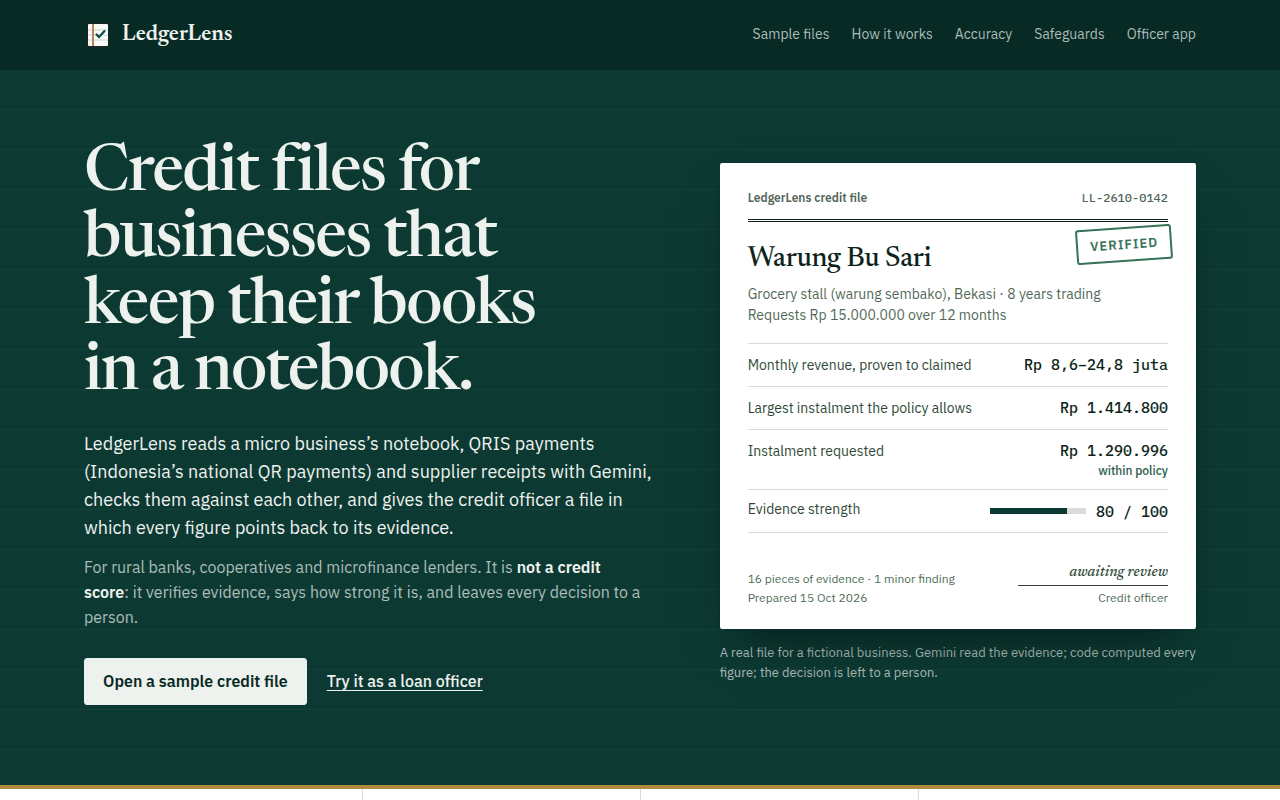
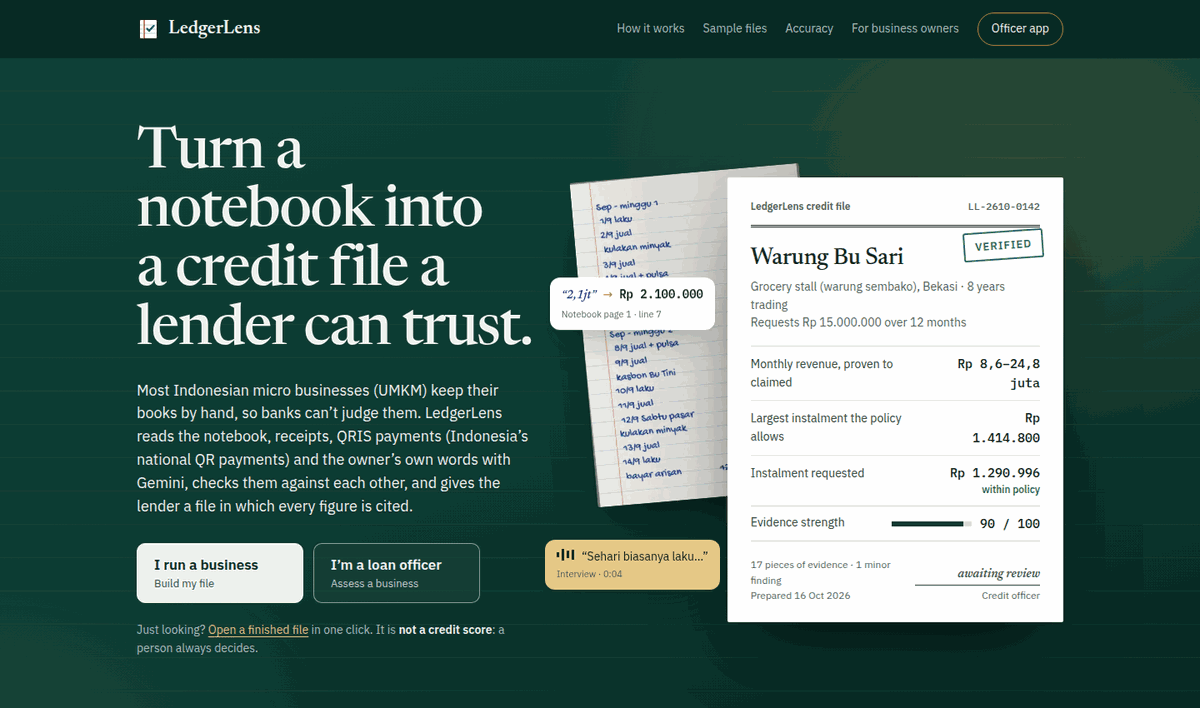
docs: describe both sides of LedgerLens and the handover
The README now shows the business owner's phone screens beside the lender's, explains how a file
moves from owner to lender and back, what each side can see, and why there is no marketplace.

diff --git a/README.md b/README.md
@@ -4,8 +4,10 @@
 
 LedgerLens turns the evidence a small business already has (handwritten notebook pages, QRIS payment
 history, supplier receipts, photos of the shop and a short interview with the owner) into a verified credit
-file that a loan officer can trust. Every number in the file links back to the photo it came from, and a
-human always makes the lending decision.
+file that a loan officer can trust. It has two sides. A business owner can build the file on their own phone,
+see what it confirms and what is still missing, and share it with one lender of their choice; a loan officer
+can open that shared file, or build one on a visit. Every number in the file links back to the photo it came
+from, and a human at the lender always makes the decision.
 
 **Live prototype: [ledger-lens-511708.web.app](https://ledger-lens-511708.web.app)**. There is no login
 wall: the app signs you in anonymously in the background.
@@ -14,24 +16,37 @@ wall: the app signs you in anonymously in the background.
 > Fraud & Financial Experiences). Every business, notebook and receipt in the prototype is fictional.
 
 <p align="center">
-  <img src="assets/screens/landing.png" width="820" alt="LedgerLens landing page with a verified sample credit file for Warung Bu Sari">
+  <img src="assets/screens/landing.png" width="820" alt="LedgerLens landing page with two doors, I run a business and I'm a loan officer, beside a notebook page and a verified credit file for Warung Bu Sari">
 </p>
 
 ### Try it in two minutes
 
-1. **Read a finished credit file.** Open the [Warung Makan Hendra sample](https://ledger-lens-511708.web.app/samples/pak-hendra),
+There are three ways in. The first needs no waiting at all; the other two run the real analysis with Gemini.
+
+1. **Open a finished credit file.** Open the [Warung Makan Hendra sample](https://ledger-lens-511708.web.app/samples/pak-hendra),
    a food stall whose notebook claims far more than its purchases can support. Click any citation, such as
    *Notebook page 1, line 2*, to see the photographed page beside what Gemini read from it, with that line
    highlighted, or *Interview, 0:04* to hear the owner put his daily sales at a third of what his notebook
    claims. The other two samples are [Warung Bu Sari](https://ledger-lens-511708.web.app/samples/bu-sari)
    (verified) and [Penjahit Pak Joko](https://ledger-lens-511708.web.app/samples/pak-joko) (partially
    verified). These files were analysed in advance, so they open instantly.
-2. **Run one yourself as a loan officer** (about five minutes, most of it waiting on the free tier):
-   go to [/app/new](https://ledger-lens-511708.web.app/app/new), choose **Start from a sample business**, then
-   **Create and continue to consent** and **Record consent and continue**. On the evidence page, press
-   **Add these records** to upload that business's two months of photos, then **Run the analysis** and watch
-   the agents work. When the file is ready, type an answer under a question for the owner and press
-   **Re-check with the owner's answers**. Finish by recording a decision with a written reason.
+2. **Be the business owner** (on a phone if you have one; about five minutes, most of it waiting on the free
+   tier): go to [/owner](https://ledger-lens-511708.web.app/owner) and pick a business under **Try with a
+   sample business**. Press **Continue**, read who will see your file and agree with **I agree, let's start**,
+   then press **Add these sample records** and **Check my records**. When the check is done, read the summary
+   written for you, answer a question if you like, and press **Create my share link**. You get a link and an
+   8-character code to give a lender.
+3. **Be the loan officer.** Open the owner's share link in another browser or a private window, as a lender
+   would on their own device (or type the code on the [Applications](https://ledger-lens-511708.web.app/app)
+   page). The full credit file joins your list, marked *Shared by owner*. To try the officer-led flow
+   instead, go to [/app/new](https://ledger-lens-511708.web.app/app/new), choose **Start from a sample
+   business**, then **Create and continue to consent** and **Record consent and continue**. On the evidence
+   page, press **Add these records**, then **Run the analysis** and watch the agents work. When the file is
+   ready, type an answer under a question for the owner, press **Re-check with the owner's answers**, and
+   finish by recording a decision with a written reason.
+
+The demo runs on Gemini's free tier, so it has daily limits for the judging period: 35 analyses or re-checks
+a day across the site and 6 per visitor. Beyond that, the three sample files always open.
 
 ---
 
@@ -78,10 +93,16 @@ Indonesia's financial services authority, OJK, now requires lenders to make smal
 
 ## What LedgerLens does
 
-1. **Capture.** With the owner's consent, recorded on screen in Bahasa Indonesia and English, a loan officer
-   adds whatever records the business has: QRIS or e-wallet history, supplier receipts, notebook pages, a
-   short interview recording and photos of the shop. An evidence-strength meter shows how much the file can
-   prove before anything is analysed.
+LedgerLens has two sides that meet in one credit file. **Business owners** use a phone-first app, in English
+with a one-tap switch to Bahasa Indonesia, to photograph their own records, check them and see what they
+prove before they ever talk to a lender. **Lenders' loan officers** receive that file through a share link
+the owner chooses to send, or build a file themselves on a visit. Either way, the same Gemini pipeline does
+the work:
+
+1. **Capture.** With the owner's consent, either the owner sends records from their phone camera or a loan
+   officer captures them on a visit: QRIS or e-wallet history, supplier receipts, notebook pages, a short
+   voice note or interview recording and photos of the shop. Each item remembers who captured it. On the
+   officer's side, an evidence-strength meter shows how much the file can prove before anything is analysed.
 2. **Read.** Gemini agents read every item in parallel: messy handwriting and local shorthand (such as
    *"1,2jt"* for Rp 1.2 million), QRIS screenshots, receipts, shop photos and spoken Bahasa. Each notebook
    page is read twice and the two readings are compared.
@@ -89,11 +110,18 @@ Indonesia's financial services authority, OJK, now requires lenders to make smal
    runs arithmetic checks, such as "the QRIS rows can't add up to more than the printed total".
 4. **Cross-check.** A verifier compares the sources against each other. If the notebook claims several times
    what QRIS and supplier receipts support, that becomes a finding, with citations to the exact lines.
-5. **Ask.** Where an owner could explain a gap, LedgerLens writes a polite question in Bahasa. The officer
-   types the owner's answer and the file is checked again, just as a good credit officer would do it.
+5. **Ask.** Where an owner could explain a gap, LedgerLens writes a polite question in Bahasa. The owner can
+   answer it on their phone, or the officer types the answer on a visit, and the file is checked again, just
+   as a good credit officer would do it.
 6. **Cite and decide.** The file ends in a credit memo in the 5C format lenders already use (Character,
-   Capacity, Capital, Collateral, Conditions) and a summary for the owner in Bahasa. Every figure links to its
-   evidence, and the officer records the decision with a written reason.
+   Capacity, Capital, Collateral, Conditions) and a summary written for the owner in English and Bahasa.
+   Every figure links to its evidence, and the officer records the decision with a written reason.
+
+The two sides see different things on purpose. The owner sees their records, a plain summary of what could be
+confirmed and what is still missing, three tips to make the file stronger and the questions put to them. The
+lender sees the full credit file: the findings, every figure with its source, the outcome and the 5C memo.
+The owner never sees the officer's findings, figures or outcome label, so the summary can coach them without
+becoming a verdict.
 
 ## What it is not
 
@@ -114,6 +142,18 @@ When LedgerLens is unsure, the business is no worse off than it is today.
 
 All screenshots are of the deployed prototype, with fictional businesses.
 
+**The business owner's side**, on a phone:
+
+<table>
+  <tr>
+    <td width="33%" valign="top"><img src="assets/screens/owner-home.png" alt="The owner's home page: Show a lender what your notebook already proves, with three steps and a Start my file button"><br><sub><b>Start a file.</b> Three steps, no account or password, and sample businesses to try.</sub></td>
+    <td width="33%" valign="top"><img src="assets/screens/owner-summary.png" alt="The owner's summary for Warung Makan Hendra: what we could confirm, what's still missing and three tips"><br><sub><b>A summary for the owner.</b> What was confirmed, what is still missing and how to make the file stronger.</sub></td>
+    <td width="33%" valign="top"><img src="assets/screens/owner-share.png" alt="Share with a lender: a share link, Copy link and Send on WhatsApp buttons, an 8-character code and Stop sharing"><br><sub><b>Share with one lender.</b> A link or a code, also via WhatsApp, and sharing can be stopped at any time.</sub></td>
+  </tr>
+</table>
+
+**The lender's side**, in the officer app:
+
 <table>
   <tr>
     <td width="50%"><img src="assets/screens/evidence.png" alt="Evidence step with an evidence-strength meter and a sample business's records"><br><sub><b>Collect the evidence.</b> Each kind of evidence is marked hard, medium or soft, and the strength meter explains what the file can prove. A sample business's records can be added in one click.</sub></td>
@@ -130,8 +170,8 @@ All screenshots are of the deployed prototype, with fictional businesses.
 </table>
 
 <p align="center">
-  <img src="assets/screens/landing-phone.png" width="240" alt="The landing page at phone width"><br>
-  <sub>The app works at phone width, since officers work in the field.</sub>
+  <img src="assets/screens/landing-phone.png" width="240" alt="The landing page at phone width, with the I run a business and I'm a loan officer doors"><br>
+  <sub>Both sides work at phone width: owners use their own phones, and officers work in the field.</sub>
 </p>
 
 ## How it works
@@ -140,7 +180,7 @@ All screenshots are of the deployed prototype, with fictional businesses.
 
 ```mermaid
 flowchart LR
-    B["Officer's browser<br/>React app on Firebase Hosting<br/>anonymous Firebase Auth"] -- "/api calls" --> R["Cloud Run API (Jakarta)<br/>FastAPI + Gemini agents"]
+    B["Owner's phone or officer's browser<br/>React app on Firebase Hosting<br/>anonymous Firebase Auth"] -- "/api calls" --> R["Cloud Run API (Jakarta)<br/>FastAPI + Gemini agents"]
     R -- "prompts, structured output" --> G["Gemini<br/>Gemini Developer API"]
     B -- "uploads photos and audio" --> S[("Cloud Storage for Firebase<br/>United States")]
     R -- "reads evidence" --> S
@@ -148,9 +188,43 @@ flowchart LR
     F -- "live updates" --> B
 ```
 
-When the officer runs the analysis, the whole pipeline runs inside that one Cloud Run request. Each agent
-writes its progress to Firestore as it goes, and the app listens to that document, so the officer watches
-every step finish live. Browsers can only read from Firestore; every write goes through the API.
+When the owner or the officer starts a check, the whole pipeline runs inside that one Cloud Run request. Each
+agent writes its progress to Firestore as it goes, and the app listens to that document, so either side
+watches every step finish live. Browsers can only read from Firestore; every write goes through the API.
+
+### Two sides and the handover
+
+```mermaid
+flowchart LR
+    O["Business owner<br/>/owner on a phone"] -- "consent, records,<br/>Check my records" --> P["Same Gemini pipeline"]
+    P -- "summary, tips, questions" --> O
+    O -- "share link or<br/>8-character code" --> L["Loan officer<br/>/app/shared/{code}"]
+    P -- "full credit file" --> L
+    L -- "decision with a written reason" --> A[("Audit log")]
+```
+
+- **The owner holds the file.** An owner starts it at `/owner`, agrees to the consent text, sends records by
+  camera and runs **Check my records**. Their files are linked to the browser that started them, and nobody
+  else sees them until the owner shares.
+- **The handover is a share link.** **Create my share link** gives a link and an 8-character code, which the
+  owner can send by WhatsApp or read out. A loan officer opens it at `/app/shared/{code}`, or types the code
+  on the Applications page, and the file joins their list marked *Shared by owner*. Every item the owner
+  sent is tagged *sent by owner*. The owner's page then shows that a lender has opened it, and the owner can
+  stop sharing at any time.
+- **One lender at a time.** Once one officer has opened a link, a second officer opening the same link is
+  refused.
+- **Evidence the owner sends counts for less.** A photo taken by the owner is weaker evidence than one an
+  officer captures on a visit, and the verifier is told who captured each item. If the only QRIS history in
+  a file was sent by the owner, code adds a finding that asks the officer to confirm it in the merchant app,
+  so an owner-only file can be at most *Partially verified* until an officer has done so.
+- **Each side reads only its part.** The API and the Firestore security rules enforce it: the owner can read
+  their file, their evidence, the progress of a check and the summary written for them, while the lender's
+  memo, findings and audit log are for the officer only.
+- **No marketplace, on purpose.** LedgerLens has no lender directory and does not match borrowers with
+  lenders. In Indonesia, matching a borrower with several lenders or passing a credit file among lenders is
+  regulated by OJK, the financial services authority, through its rules for loan aggregators and credit
+  information providers (LPIP). So the owner holds the file and chooses one lender at a time, and LedgerLens
+  stays a tool that a single lender uses with the owner's permission.
 
 ### The agent pipeline
 
@@ -168,19 +242,23 @@ flowchart LR
 
 - **Readers** transcribe, they don't interpret. Each returns schema-validated JSON in which every amount
   carries a locator (a page and line, a receipt total or a QRIS row). Each notebook page is read twice;
-  where the two readings disagree, that becomes a finding for the officer to check.
+  where the two readings disagree, that becomes a finding for the officer to check. Owner and officer files
+  go through the same readers.
 - **The calculator** is plain Python: it parses rupiah shorthand, builds monthly cash flow and runs
   arithmetic checks across the sources.
 - **The verifier** (Gemini) cross-checks the sources, cites every finding and writes polite follow-up
-  questions in Bahasa.
+  questions in Bahasa. It is told whether the owner or an officer captured each item, and says so when a
+  conclusion rests only on what the owner sent.
 - **Lender policy** is plain Python: it sets the outcome, applies a haircut to cash flow and computes the
   largest instalment the policy allows.
-- **The memo writer** (Gemini) writes the 5C memo and the owner summary.
+- **The memo writer** (Gemini) writes the 5C memo for the lender and, separately, the owner's summary:
+  what could be confirmed, what is still missing and three tips.
 - **The model never produces a number.** The verifier and memo writer may refer to a figure only as a
   `[[key]]` placeholder, such as `[[revenue_low]]`, which code fills in from the calculator's fact table. A
   guard rejects any number the model writes itself: the agent is asked once more, and anything still stray
   is scrubbed.
-- **The follow-up loop.** The officer types the owner's answers and the file is checked again. Only the
+- **The follow-up loop.** The owner answers on their phone, or the officer types the owner's answers, and
+  the file is checked again. Only the
   verifier, policy and memo writer run; the evidence is not read again. An answer can explain a point, but
   code never lets it clear a material contradiction in the figures. The owner can be asked at most twice.
 - **The evidence viewer.** Every citation in the credit file opens the evidence photo beside what the reader
@@ -193,14 +271,14 @@ flowchart LR
 | --- | --- |
 | **Gemini** | Reads handwriting, QRIS screenshots, receipts, shop photos and Bahasa audio; cross-checks the sources; writes the follow-up questions, the 5C memo and the owner summary, always as schema-validated JSON. The prototype calls the Gemini Developer API (Google AI Studio) on its free tier, with a chain of models per role |
 | **Cloud Run** (Jakarta, `asia-southeast2`) | Hosts our FastAPI app and the agent pipeline. An analysis runs inside its request and streams progress through Firestore; request-based billing lets the service scale to zero when idle |
-| **Firestore** (Jakarta) | Stores applications, evidence readings, runs (the live trace), the credit file and the audit log, and streams live progress to the app |
-| **Firebase** | Hosting serves the web app and forwards `/api` to Cloud Run; anonymous Auth means judges meet no login wall; Cloud Storage holds the evidence; security rules let browsers only read, and let each user upload only into their own folder |
+| **Firestore** (Jakarta) | Stores applications, evidence readings, runs (the live trace), the credit file, the owner's summary, share links and the audit log, and streams live progress to both sides |
+| **Firebase** | Hosting serves the web app and forwards `/api` to Cloud Run; anonymous Auth means judges, owners and officers meet no login wall; Cloud Storage holds the evidence; security rules let browsers only read, let each user upload only into their own folder, and keep the lender's findings, memo and audit log away from the owner |
 
 ## Tech stack
 
 | Layer | What we use | Why |
 | --- | --- | --- |
-| Web app | React 19, Vite, TypeScript, plain CSS | Mobile-first screens for the officer, plus a public landing page and sample files |
+| Web app | React 19, Vite, TypeScript, plain CSS | Phone-first screens for the business owner (English with a Bahasa Indonesia switch) and mobile-first screens for the officer, plus a public landing page and sample files |
 | Firebase SDK | `firebase` 12.19.0 | Hosting, anonymous Auth, Storage uploads, Firestore listeners |
 | Backend | Python 3.12, FastAPI on Cloud Run | Our API and the agent pipeline |
 | AI agents | Google Gen AI SDK 2.30.1, structured output with Pydantic schemas | Five readers that run in parallel; a verifier and a memo writer that may cite figures only by `[[key]]` |
@@ -216,11 +294,18 @@ keeps each agent a small, testable function with one prompt and one output schem
 
 ## Responsible AI and data
 
-- **Consent first.** The owner agrees, on screen in Bahasa Indonesia and English, before any record is
-  captured. The consent and its time are stored, and the consent text says the owner may withdraw it at any
-  time.
+- **Consent first.** The owner agrees before any record is captured: on their own phone when they start the
+  file themselves (in English or Bahasa Indonesia), or on the officer's screen in both languages during a
+  visit. The consent and its time are stored. The text says who will see the file, where the data is kept,
+  that Gemini reads it, that a person at the lender decides, and that the owner may withdraw at any time.
+- **The owner controls sharing.** A file the owner starts is seen by nobody else until they create a share
+  link, and then by one lender only. The owner can stop sharing at any time from their phone.
+- **Each side sees only its part.** The API and the Firestore security rules enforce access: the owner reads
+  their own file, evidence, progress and summary, while the lender's findings, memo and audit log are for the
+  officer only.
 - **No personal identifiers.** We store a business alias, never an owner's legal name or national ID number.
-- **Where data lives.** Records are stored in Google Cloud's Jakarta region and photos in the United States.
+- **Where data lives.** Records are stored in Google Cloud's Jakarta region and photos and voice notes in the
+  United States.
   AI reading runs on Google's global endpoint. The consent screen says all of this plainly.
 - **Prototype versus production.** To keep the hackathon prototype free to run, it calls Gemini through the
   Gemini Developer API's free tier, where Google may use inputs to improve its products. It therefore
@@ -255,6 +340,10 @@ On the free tier a full analysis of 14 to 16 items takes 30 to 220 seconds, depe
 re-check with the owner's answers needs only about 7 seconds of verifier time. The prototype runs on Gemini's
 free tier and within the free allowances of Cloud Run, Firestore and Hosting.
 
+We also ran the owner's side end to end on the live site, on a 390-pixel-wide phone screen: the Warung Makan
+Hendra sample with 17 records was checked in about 106 seconds and gave a summary with 4 questions, and a
+separate lender browser opened the share link and saw the full file, marked Inconsistent.
+
 To reproduce these results (see [`eval/README.md`](eval/README.md) and [`api/README.md`](api/README.md)):
 
 | Script | What it does |
@@ -278,6 +367,10 @@ shorthand and photo quality, and results on the team's own handwritten pages wil
 - [x] End-to-end assessment on the live URL: capture, analysis with a live trace, credit file, follow-up
   questions, decision
 - [x] Evidence viewer, published sample files and measured accuracy on synthetic and public data
+- [x] The business owner's side: an owner-held file built on a phone, with the owner's own consent, a
+  summary and questions written for them, and a check of what they send
+- [x] Sharing with one lender by link or code, which the owner can stop at any time, with evidence the owner
+  sent marked as weaker and access enforced by Firestore rules
 - [ ] Real handwriting test on the team's own pages
 - [ ] Submission: deck, demo video and the live prototype kept up for judging
 
@@ -286,16 +379,19 @@ shorthand and photo quality, and results on the team's own handwritten pages wil
 1. **Shadow pilot** with one or two rural banks for 3–6 months, running alongside their officers without
    affecting decisions.
 2. **Assisted decisions** for small loans once the pilot proves itself.
-3. **An owner-held file** the business can share with another lender or withdraw, and a credit-committee view.
+3. **A credit-committee view** for lenders, and letting an owner move their file from one lender to the next.
 4. **An API** for licensed online lenders and financing companies.
-5. **A transparent risk model**, trained only on real repayment outcomes collected with consent and tested
+5. **Reaching more than one lender** only through a licensed partner, such as a loan aggregator, if OJK's
+   rules allow it. We will not run an unlicensed marketplace.
+6. **A transparent risk model**, trained only on real repayment outcomes collected with consent and tested
    for fairness, working with a licensed alternative-credit-rating partner where regulation requires it.
 
 ## Repository layout
 
 ```
-web/                React + Vite + TypeScript app (landing page, sample files, officer app)
-  src/pages/officer/  new application, consent, evidence, analysis and the credit file
+web/                React + Vite + TypeScript app (landing page, sample files, owner app, officer app)
+  src/pages/owner/    the business owner's side: home, new file, consent, records, summary and sharing
+  src/pages/officer/  new application, consent, evidence, analysis, shared files and the credit file
   public/samples/     the published sample files and their evidence photos
 api/                Python 3.12 FastAPI app and the agent pipeline
   app/agents/         one module per agent: its prompt and output schema
